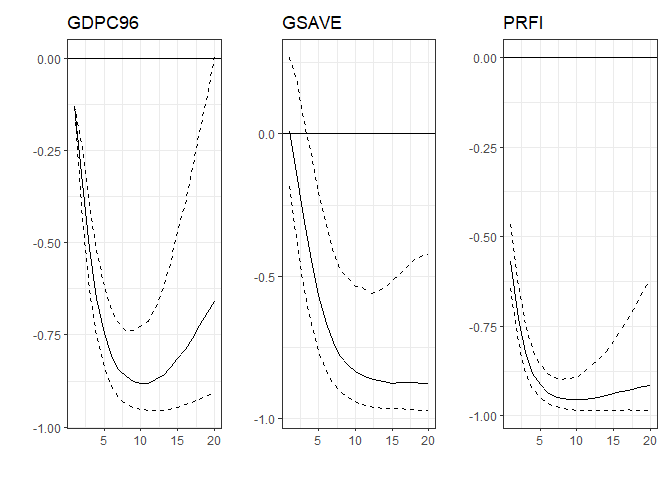
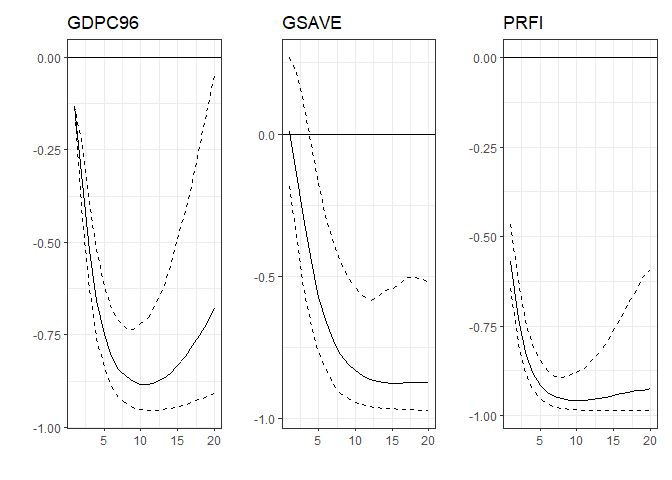
'spell_check'

diff --git a/README.md b/README.md
@@ -37,72 +37,72 @@ summary(fit,xvar = c(3,5))
 #> Estimation VAR results for equation factor1 
 #> -------------
 #>                Estimate     se    q025    q975
-#> factor1.1        0.7262 0.0035  0.5778  0.8921
-#> factor2.1        0.1495 0.0028  0.0209  0.2657
-#> Inflation.1      0.0268 0.0043 -0.1551  0.2084
-#> Unemployment.1  -0.1714 0.0034 -0.3317 -0.0233
-#> Fed_funds.1      0.0602 0.0019 -0.0165  0.1412
-#> factor1.2        0.1998 0.0040  0.0284  0.3662
-#> factor2.2       -0.0408 0.0024 -0.1504  0.0590
-#> Inflation.2     -0.0367 0.0038 -0.1991  0.1264
-#> Unemployment.2   0.1153 0.0033 -0.0198  0.2675
-#> Fed_funds.2     -0.0123 0.0018 -0.0918  0.0686
+#> factor1.1        0.7211 0.0039  0.5445  0.8907
+#> factor2.1        0.1468 0.0026  0.0267  0.2599
+#> Inflation.1      0.0266 0.0041 -0.1401  0.2092
+#> Unemployment.1  -0.1663 0.0035 -0.3231 -0.0142
+#> Fed_funds.1      0.0606 0.0019 -0.0193  0.1429
+#> factor1.2        0.1949 0.0039  0.0195  0.3614
+#> factor2.2       -0.0395 0.0025 -0.1526  0.0692
+#> Inflation.2     -0.0337 0.0035 -0.1809  0.1120
+#> Unemployment.2   0.1110 0.0034 -0.0367  0.2699
+#> Fed_funds.2     -0.0135 0.0019 -0.1007  0.0701
 #> --------------
 #> Estimation VAR results for equation factor2 
 #> -------------
 #>                Estimate     se    q025    q975
-#> factor1.1       -0.5065 0.0047 -0.7106 -0.2898
-#> factor2.1        0.7968 0.0039  0.6309  0.9670
-#> Inflation.1     -0.0195 0.0057 -0.2659  0.2342
-#> Unemployment.1   0.3257 0.0044  0.1144  0.5083
-#> Fed_funds.1     -0.0890 0.0025 -0.1923  0.0190
-#> factor1.2        0.0058 0.0051 -0.2184  0.2280
-#> factor2.2        0.0262 0.0033 -0.1258  0.1652
-#> Inflation.2      0.1521 0.0050 -0.0623  0.3612
-#> Unemployment.2  -0.3015 0.0043 -0.4761 -0.0908
-#> Fed_funds.2      0.0168 0.0025 -0.0922  0.1175
+#> factor1.1       -0.5142 0.0050 -0.7418 -0.2971
+#> factor2.1        0.8034 0.0036  0.6417  0.9574
+#> Inflation.1     -0.0111 0.0058 -0.2555  0.2436
+#> Unemployment.1   0.3307 0.0047  0.1385  0.5395
+#> Fed_funds.1     -0.0881 0.0026 -0.1961  0.0223
+#> factor1.2        0.0120 0.0052 -0.2147  0.2472
+#> factor2.2        0.0213 0.0033 -0.1219  0.1605
+#> Inflation.2      0.1429 0.0052 -0.0660  0.3670
+#> Unemployment.2  -0.3079 0.0046 -0.5086 -0.1118
+#> Fed_funds.2      0.0188 0.0026 -0.0871  0.1351
 #> --------------
 #> Estimation VAR results for equation Inflation 
 #> -------------
 #>                Estimate     se    q025    q975
-#> factor1.1        0.2371 0.0027  0.1149  0.3545
-#> factor2.1        0.2771 0.0020  0.1846  0.3634
-#> Inflation.1      0.9630 0.0033  0.8256  1.0946
-#> Unemployment.1  -0.0367 0.0027 -0.1503  0.0686
-#> Fed_funds.1     -0.0551 0.0015 -0.1161  0.0062
-#> factor1.2        0.2492 0.0030  0.1190  0.3844
-#> factor2.2        0.0778 0.0018 -0.0009  0.1636
-#> Inflation.2     -0.1245 0.0027 -0.2386 -0.0077
-#> Unemployment.2   0.0359 0.0026 -0.0758  0.1406
-#> Fed_funds.2      0.0384 0.0014 -0.0279  0.0975
+#> factor1.1        0.2288 0.0027  0.1121  0.3510
+#> factor2.1        0.2747 0.0020  0.1908  0.3649
+#> Inflation.1      0.9740 0.0034  0.8248  1.1105
+#> Unemployment.1  -0.0335 0.0027 -0.1502  0.0837
+#> Fed_funds.1     -0.0575 0.0015 -0.1189  0.0072
+#> factor1.2        0.2512 0.0031  0.1158  0.3850
+#> factor2.2        0.0791 0.0019 -0.0055  0.1541
+#> Inflation.2     -0.1333 0.0029 -0.2531 -0.0122
+#> Unemployment.2   0.0340 0.0026 -0.0832  0.1496
+#> Fed_funds.2      0.0403 0.0014 -0.0216  0.1039
 #> --------------
 #> Estimation VAR results for equation Unemployment 
 #> -------------
 #>                Estimate     se    q025    q975
-#> factor1.1        0.2852 0.0037  0.1142  0.4301
-#> factor2.1       -0.3065 0.0027 -0.4336 -0.1952
-#> Inflation.1     -0.0161 0.0044 -0.2023  0.1816
-#> Unemployment.1   0.7730 0.0034  0.6220  0.9174
-#> Fed_funds.1     -0.0099 0.0019 -0.0953  0.0710
-#> factor1.2        0.1627 0.0039 -0.0054  0.3374
-#> factor2.2        0.1237 0.0024  0.0227  0.2228
-#> Inflation.2      0.0132 0.0038 -0.1678  0.1768
-#> Unemployment.2   0.1730 0.0033  0.0324  0.3178
-#> Fed_funds.2      0.0258 0.0018 -0.0523  0.1026
+#> factor1.1        0.2870 0.0036  0.1333  0.4427
+#> factor2.1       -0.3041 0.0025 -0.4124 -0.1922
+#> Inflation.1     -0.0200 0.0039 -0.1839  0.1483
+#> Unemployment.1   0.7642 0.0036  0.5982  0.9219
+#> Fed_funds.1     -0.0087 0.0020 -0.0918  0.0835
+#> factor1.2        0.1663 0.0040 -0.0113  0.3504
+#> factor2.2        0.1226 0.0024  0.0193  0.2268
+#> Inflation.2      0.0171 0.0035 -0.1323  0.1709
+#> Unemployment.2   0.1813 0.0035  0.0269  0.3345
+#> Fed_funds.2      0.0225 0.0019 -0.0610  0.1009
 #> --------------
 #> Estimation VAR results for equation Fed_funds 
 #> -------------
 #>                Estimate     se    q025    q975
-#> factor1.1       -0.0887 0.0058 -0.3231  0.1585
-#> factor2.1        0.6067 0.0043  0.4028  0.7770
-#> Inflation.1      0.1805 0.0064 -0.0996  0.4609
-#> Unemployment.1   0.0758 0.0052 -0.1641  0.2897
-#> Fed_funds.1      0.7593 0.0031  0.6267  0.8932
-#> factor1.2        0.0581 0.0058 -0.2034  0.3272
-#> factor2.2       -0.2981 0.0037 -0.4636 -0.1493
-#> Inflation.2     -0.1418 0.0057 -0.3853  0.1033
-#> Unemployment.2  -0.0955 0.0051 -0.3216  0.1288
-#> Fed_funds.2      0.1812 0.0031  0.0546  0.3197
+#> factor1.1       -0.0801 0.0055 -0.3263  0.1427
+#> factor2.1        0.6103 0.0043  0.4220  0.8039
+#> Inflation.1      0.1847 0.0065 -0.0898  0.4524
+#> Unemployment.1   0.0615 0.0053 -0.1637  0.3112
+#> Fed_funds.1      0.7586 0.0031  0.6251  0.8846
+#> factor1.2        0.0564 0.0063 -0.2293  0.3300
+#> factor2.2       -0.3043 0.0036 -0.4574 -0.1632
+#> Inflation.2     -0.1471 0.0058 -0.3838  0.1088
+#> Unemployment.2  -0.0805 0.0051 -0.3128  0.1343
+#> Fed_funds.2      0.1808 0.0030  0.0575  0.3164
 #> --------------
 #> 
 #> =================================================================================
@@ -133,6 +133,6 @@ ans <- irf(fit,resvar = c(2,9,10), tcode = tcode, nhor = 21, showplot = T)
 
 ## Reference
 
--   Bernanke, B.S., J. Boivin and P. Eliasz, Measuring the Eeefects of
+-   Bernanke, B.S., J. Boivin and P. Eliasz, Measuring the Effects of
     Monetary Policy: A Factor-Augmented Vector Autoregressive (FAVAR)
     Approach. Quarterly Journal of Economics, 2005. 120(1): p. 387-422.

diff --git a/cran-comments.md b/cran-comments.md
@@ -6,7 +6,7 @@
 
 * macOS 10.13.6 High Sierra, R-release, brew (based on `rhub::check()`, the 10th platform)
 
-* Windows Server 2022, R-devel, 64 bit (based on `rhub::check()`, the 18th platform)
+* Windows Server 2022, R-devel, 64 bit (based on `rhub::check()`(the 18th platform) and `check_win_devel()`)
 
   
 
